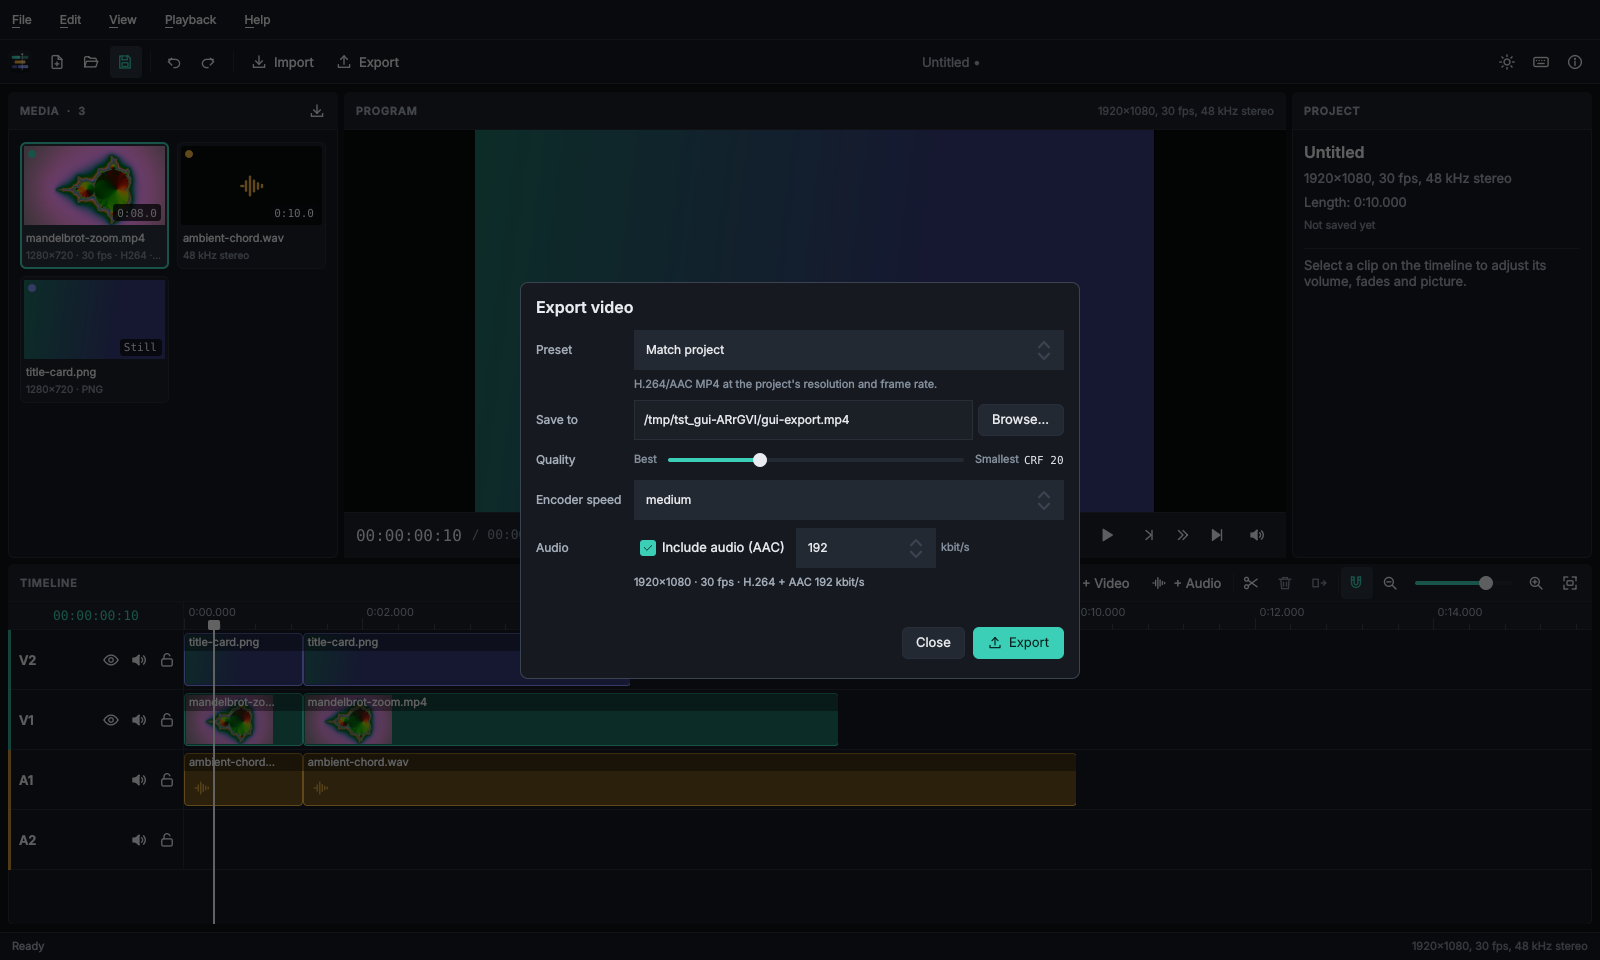
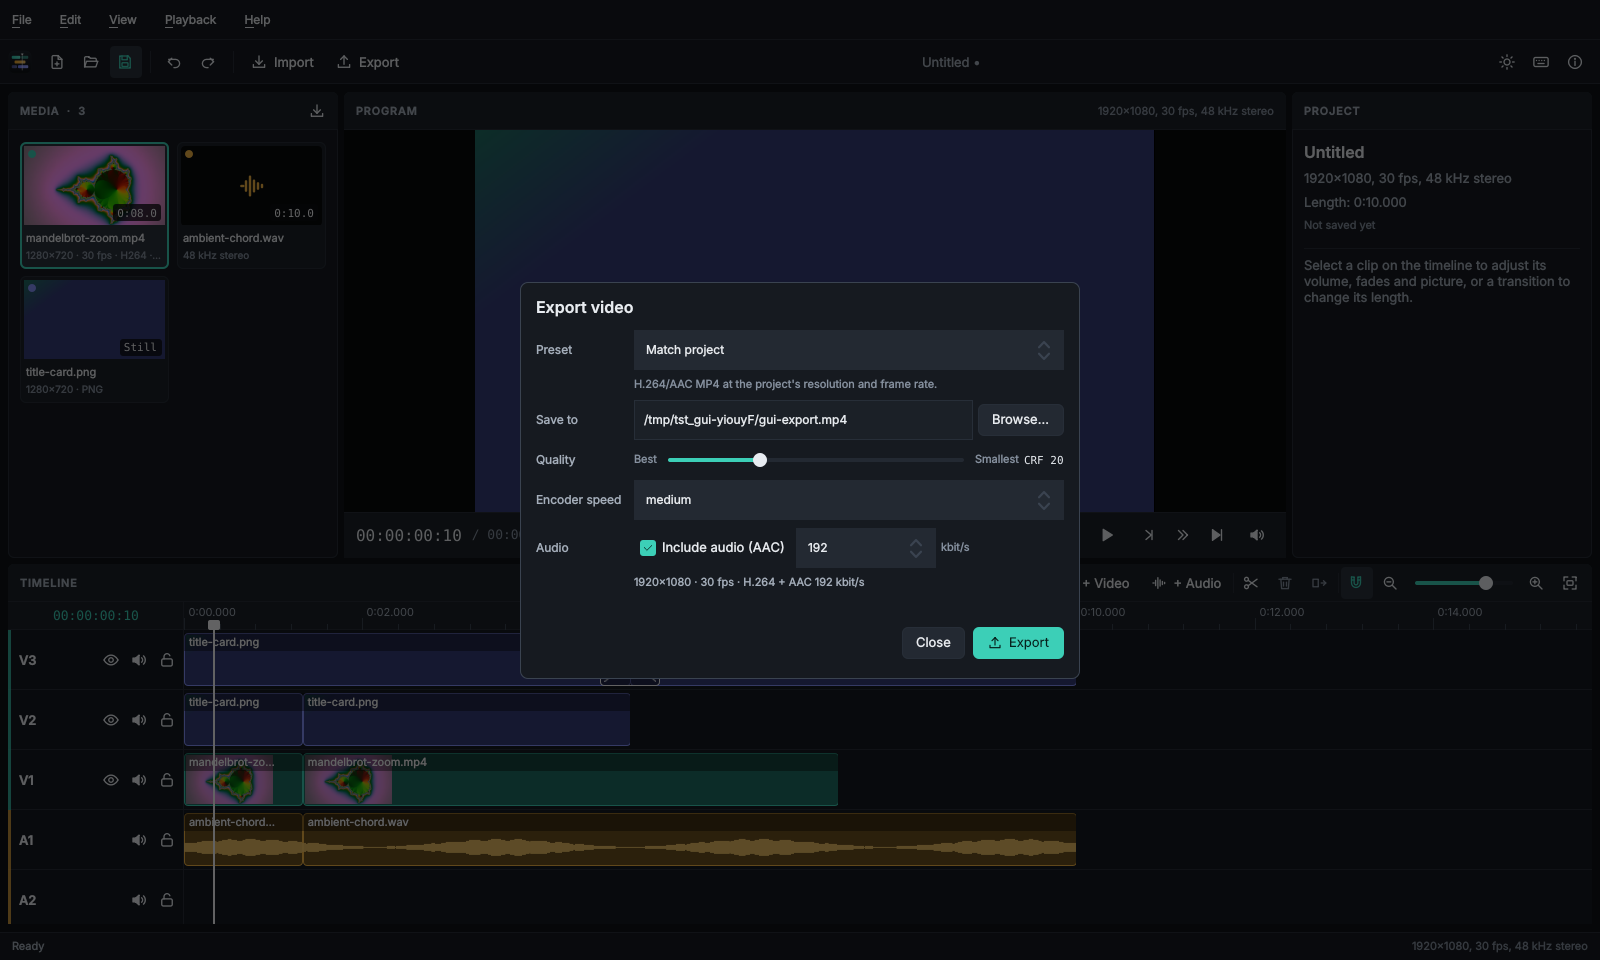
docs: refresh the screenshots with waveforms and a transition
The demo chord now swells slowly so its waveform has a visible shape,
and the GUI test captures the transition inspector for the user guide.

diff --git a/tests/gui/tst_gui.cpp b/tests/gui/tst_gui.cpp
@@ -410,7 +410,7 @@ private slots:
         QCOMPARE(m_app->project()->project().timeline().transition(added.id)->duration,
                  FrameCount{20});
         m_app->showStatus(QString());
-        screenshot(QStringLiteral("05-transition"));
+        screenshot(QStringLiteral("transition"));
 
         // Delete removes the selected transition; undo brings it back. The overlay is recreated
         // when the transition changes, so look it up again.
